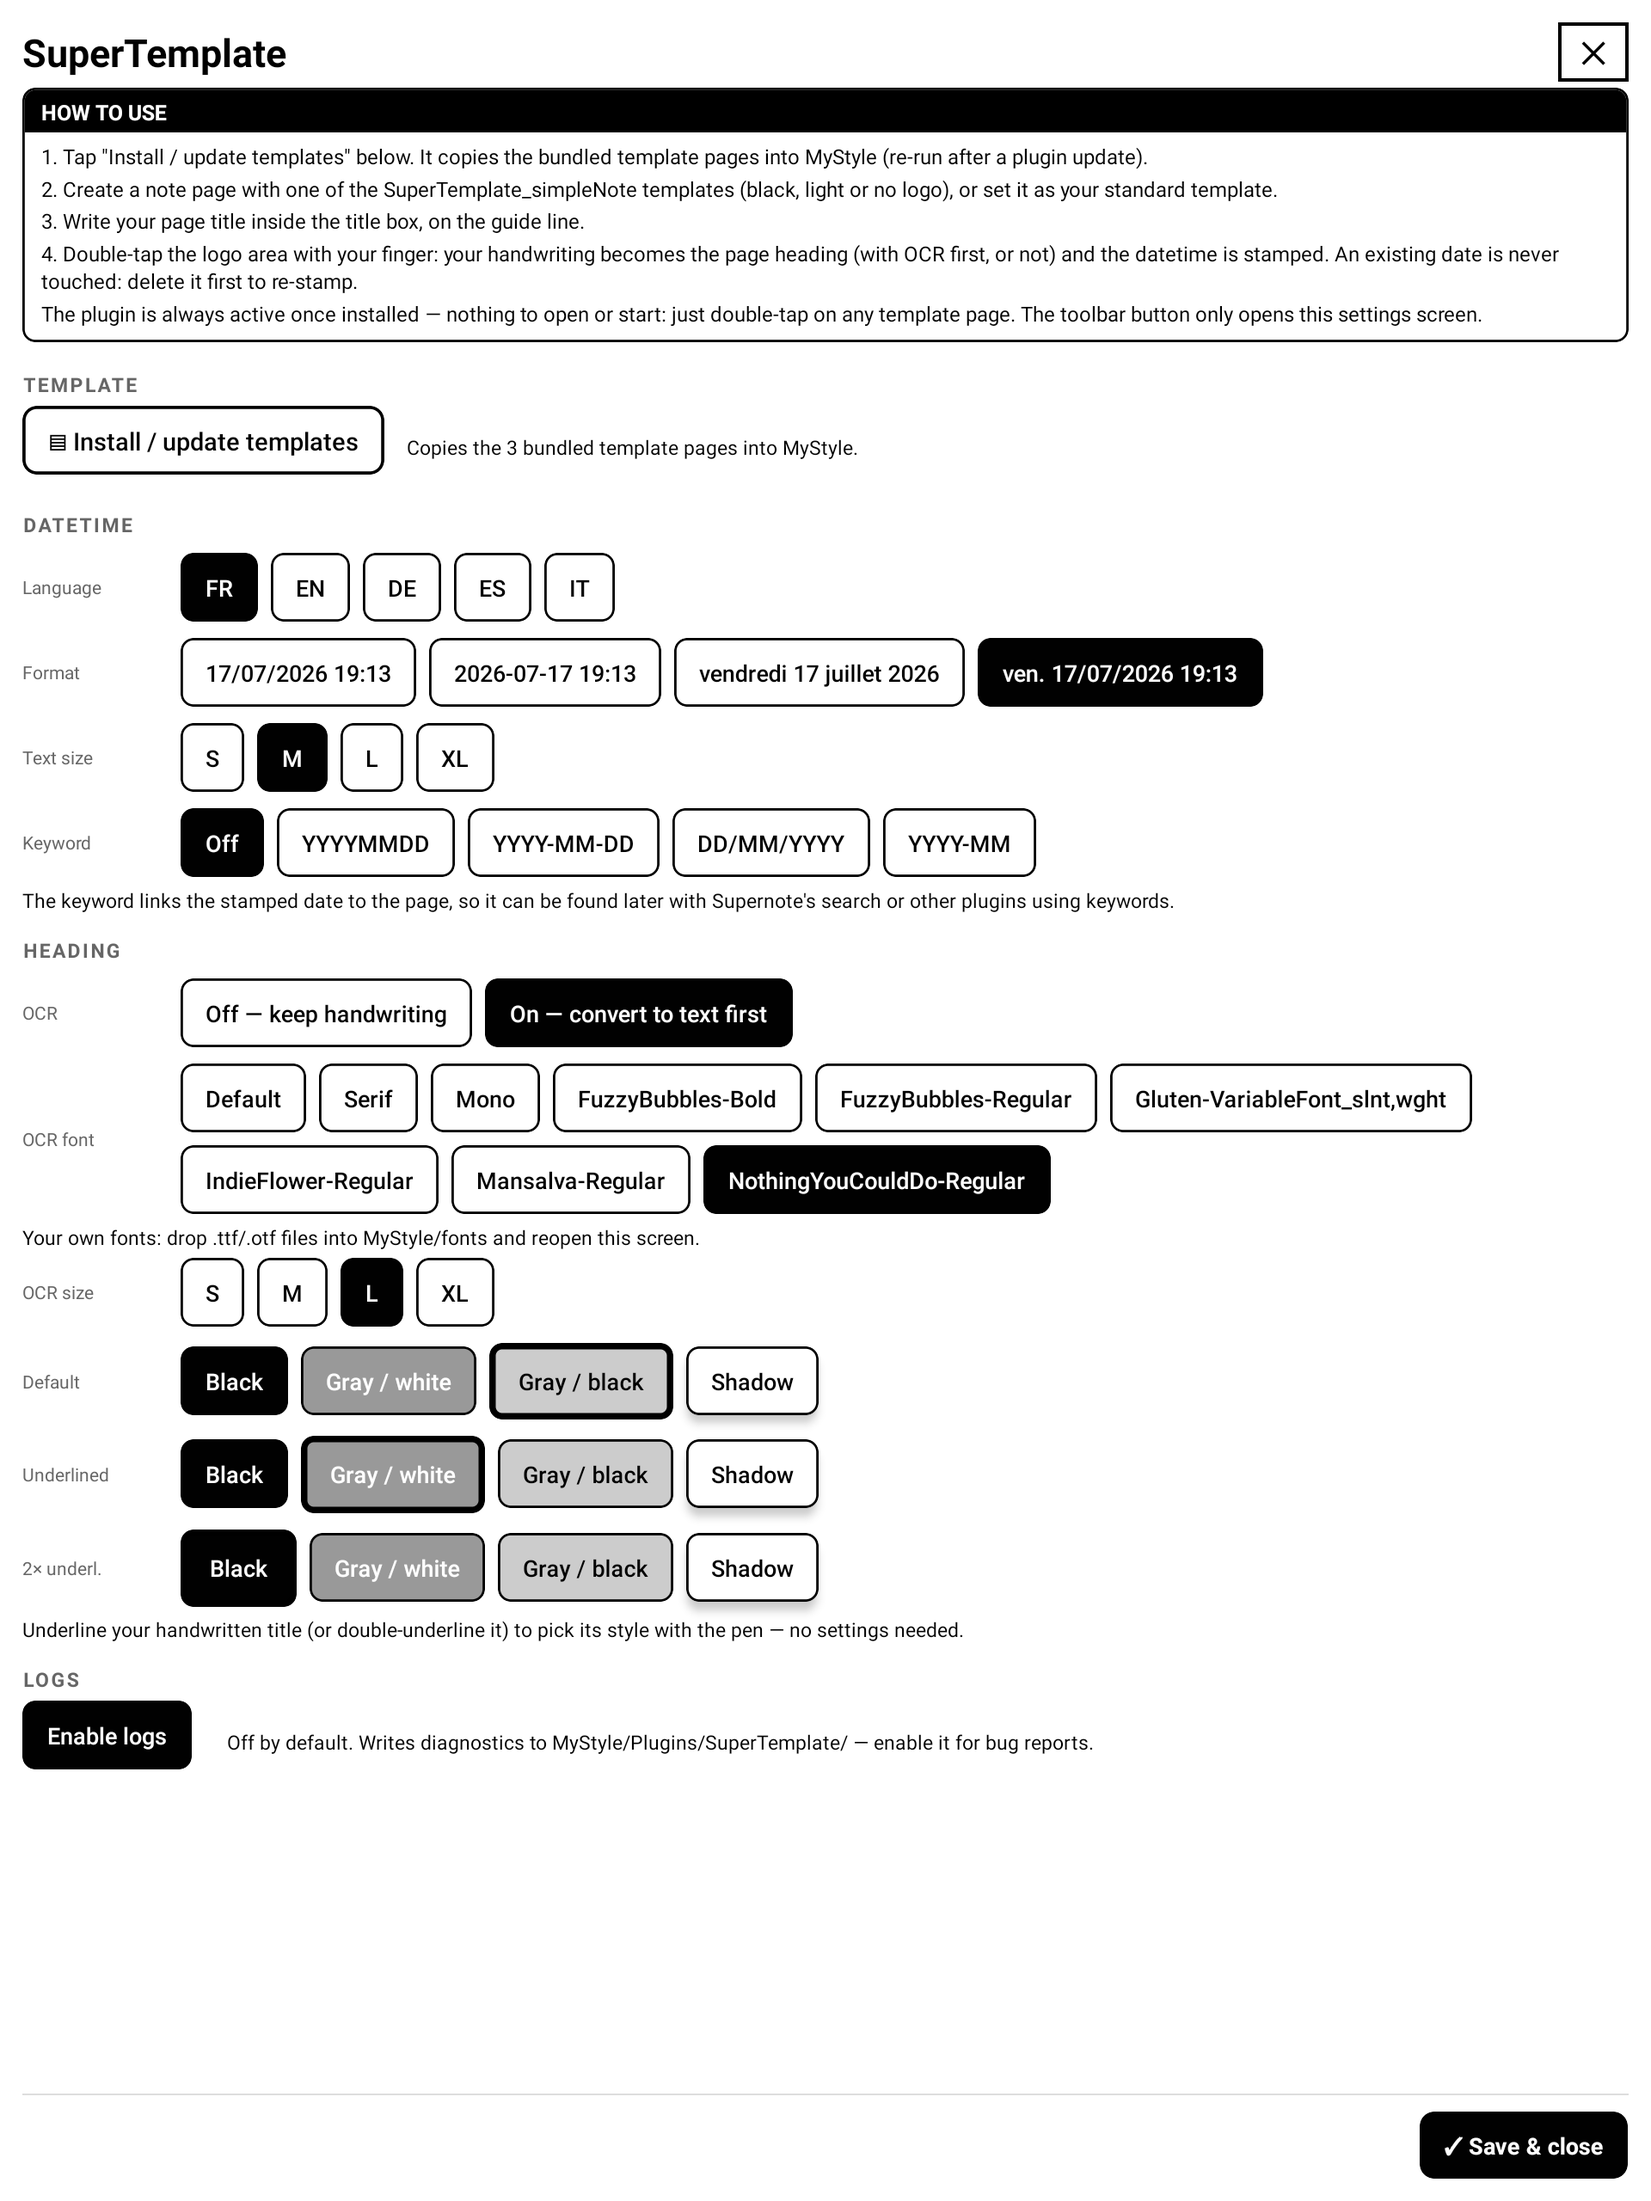
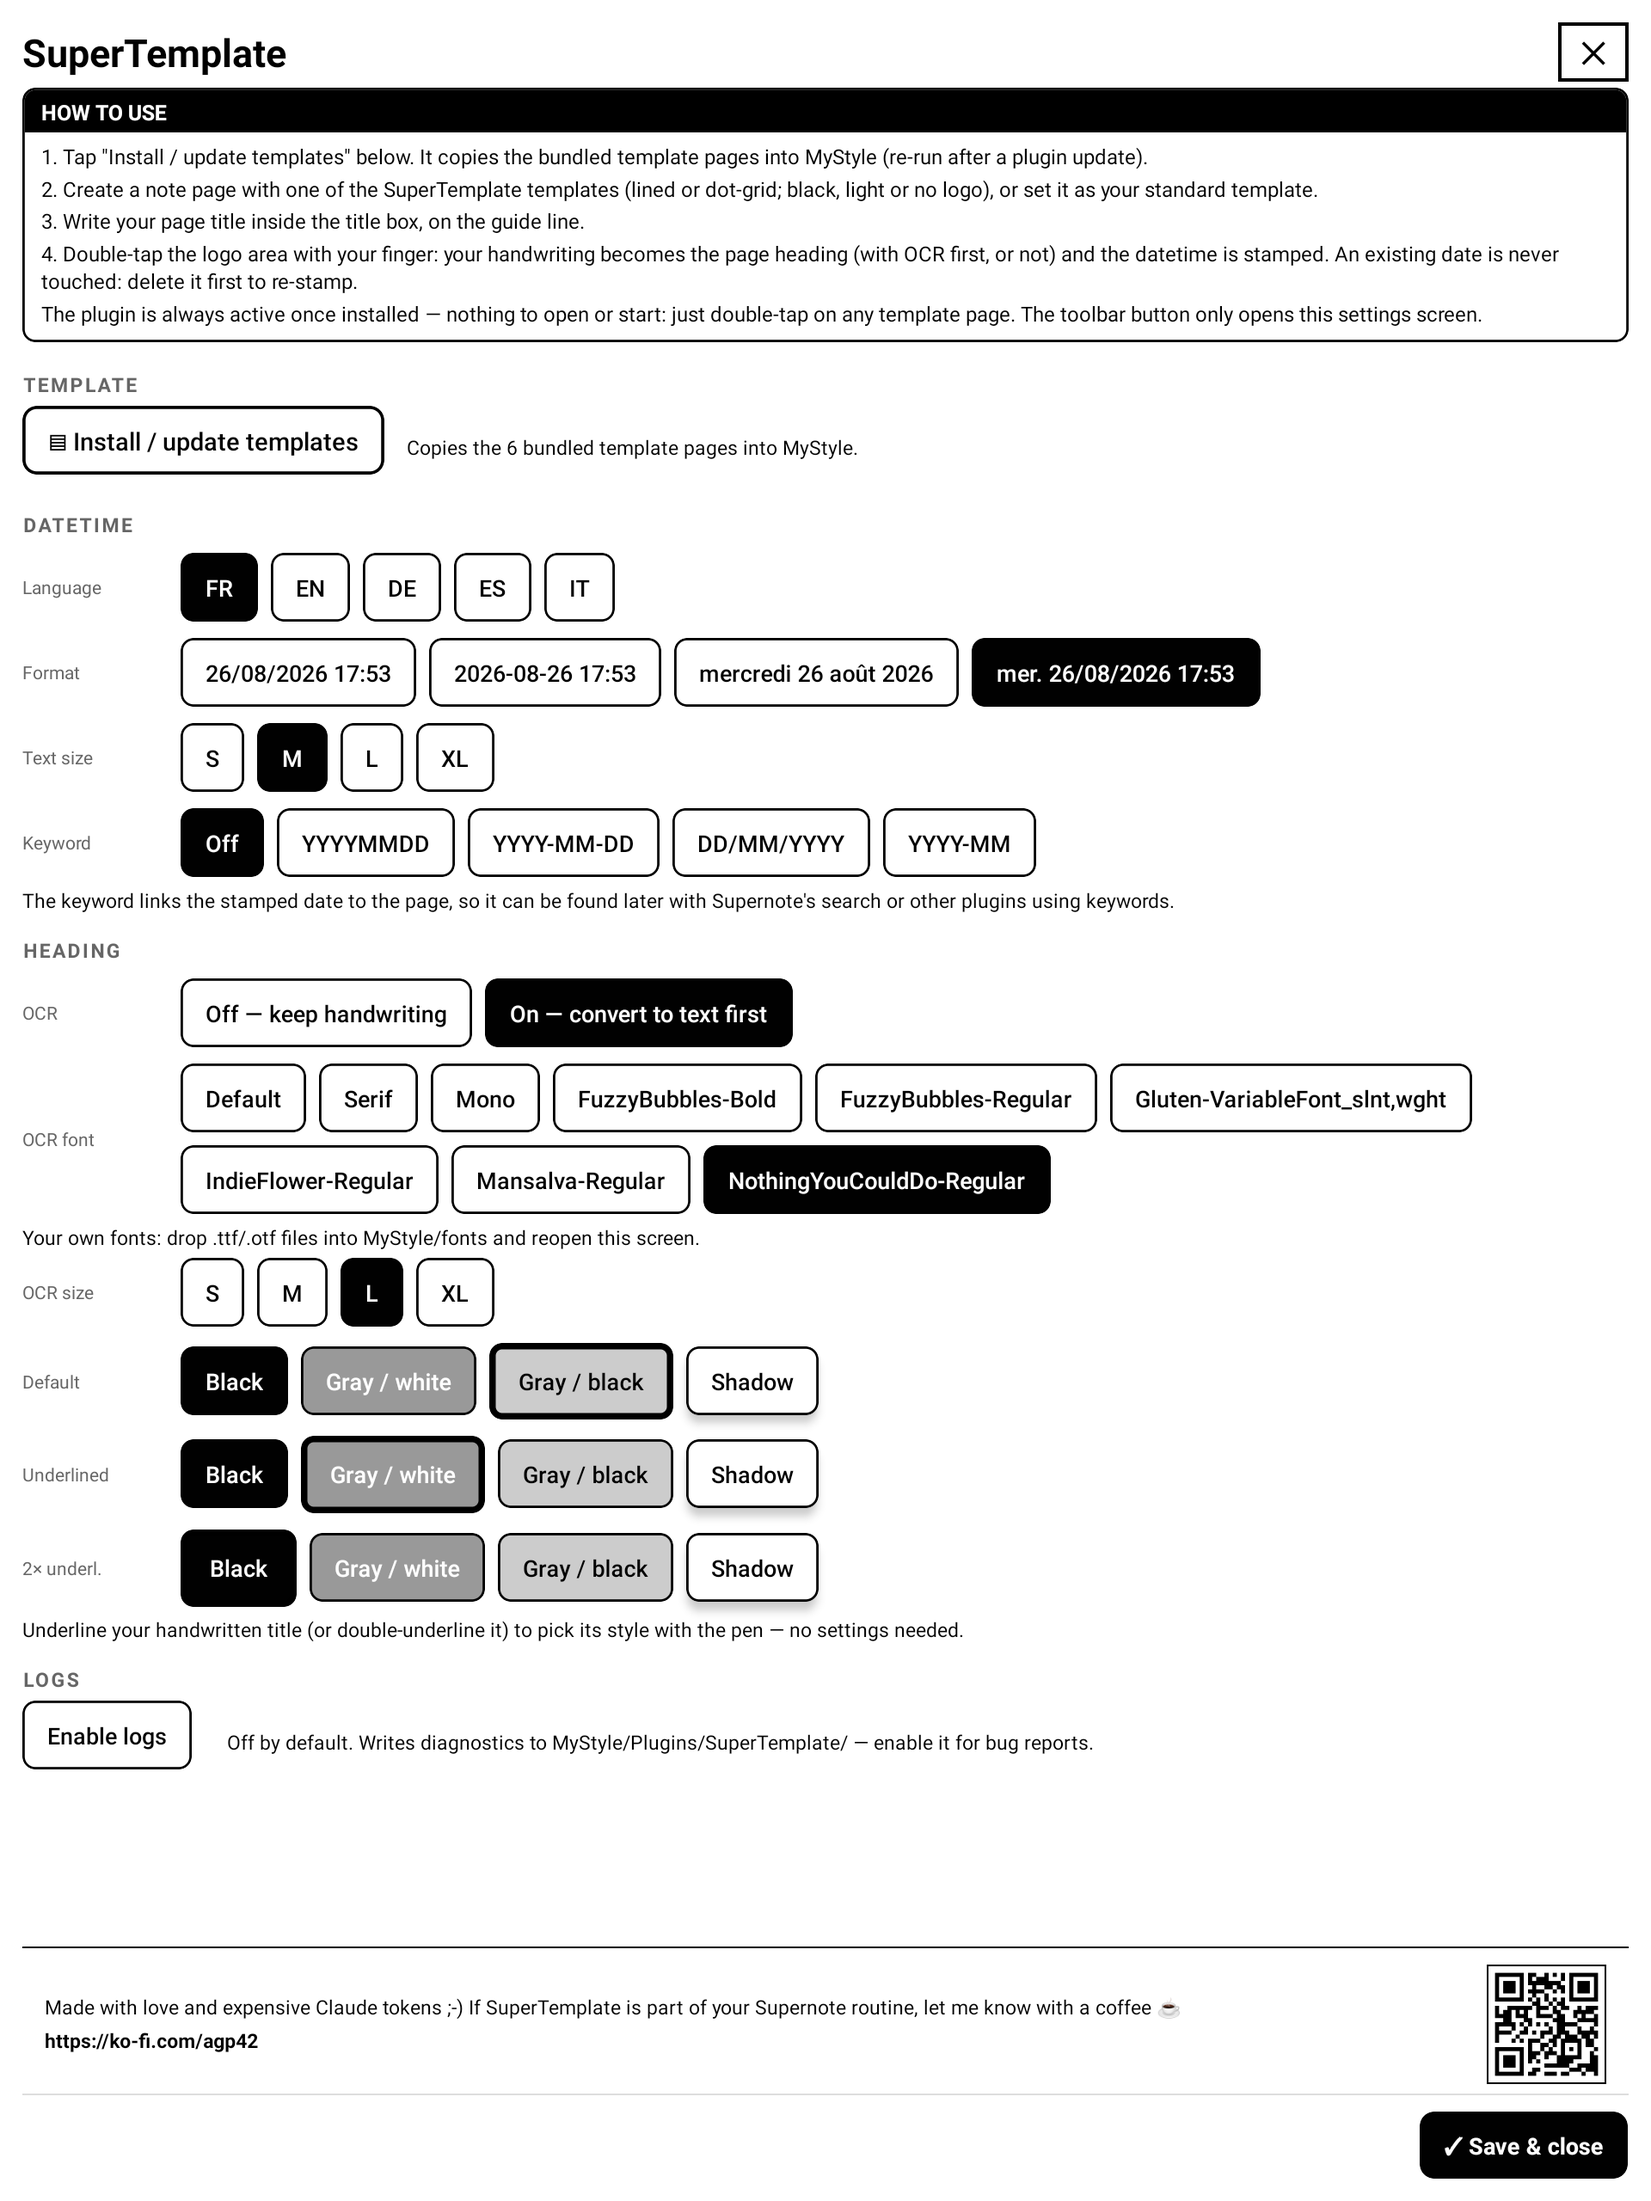
docs: refresh settings screenshot (Ko-fi footer), add dot-grid template shot

diff --git a/README.md b/README.md
@@ -30,6 +30,10 @@ popup. Everything runs on-device. No cloud, no network, no account.
 
 ![Result](docs/images/01-result.png)
 
+New in v2.0: **dot-grid templates** alongside the ruled ones (black, light or no logo):
+
+![A dot-grid template](docs/images/12-dotgrid.png)
+
 ## Which version do I need? (Supernote firmware)
 
 In August 2026 Supernote shipped a **plugin-preview firmware** (Chauvet
